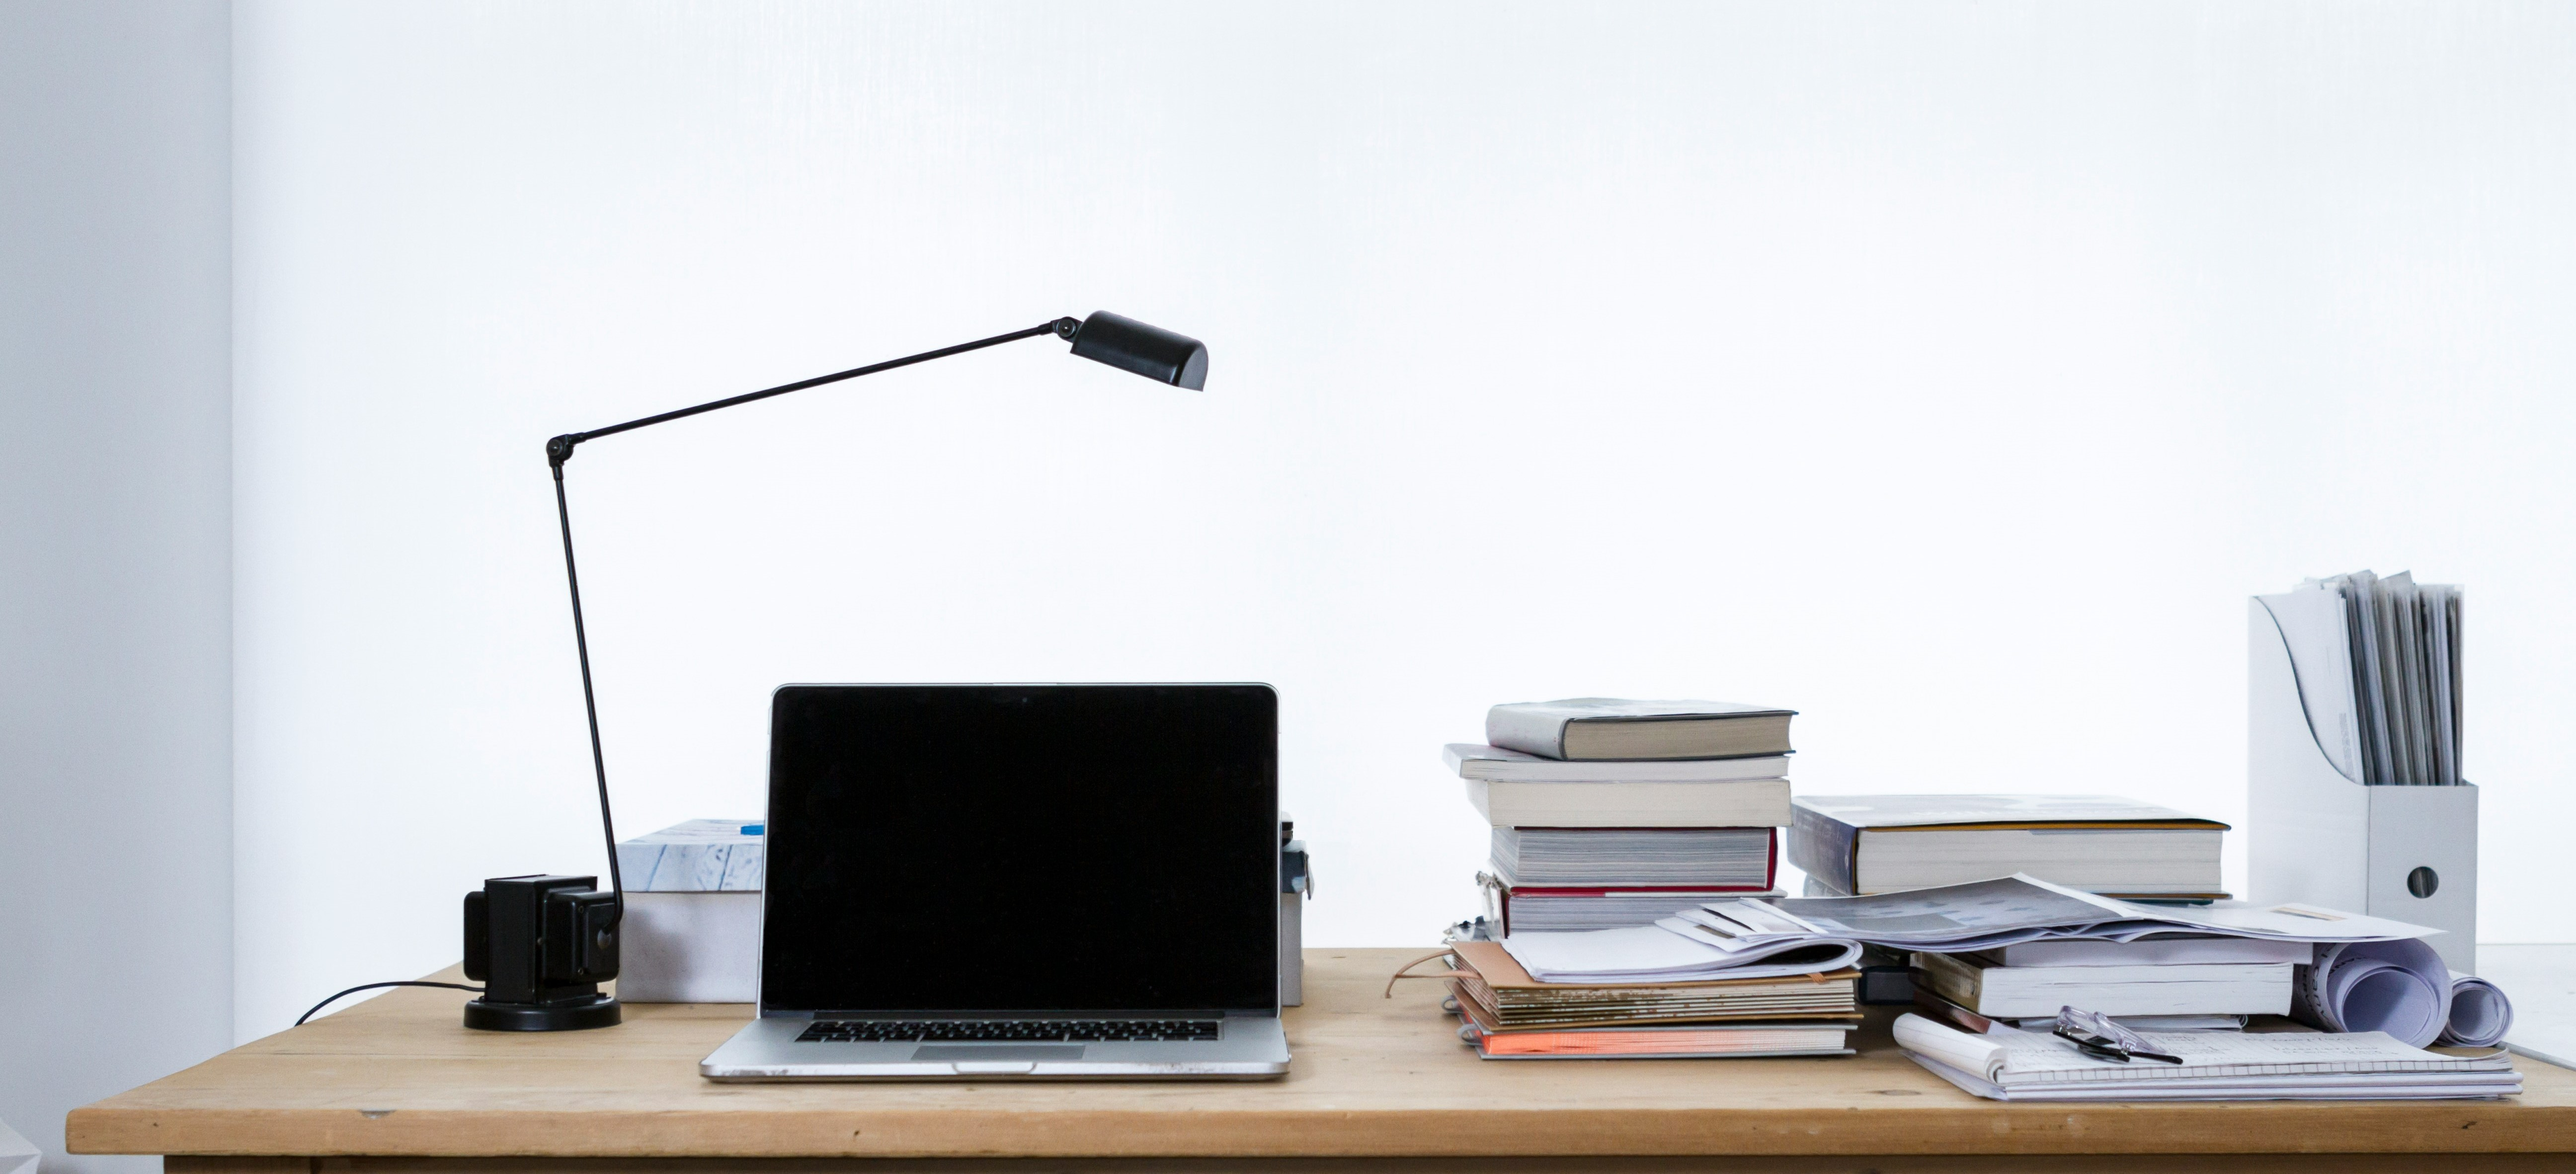
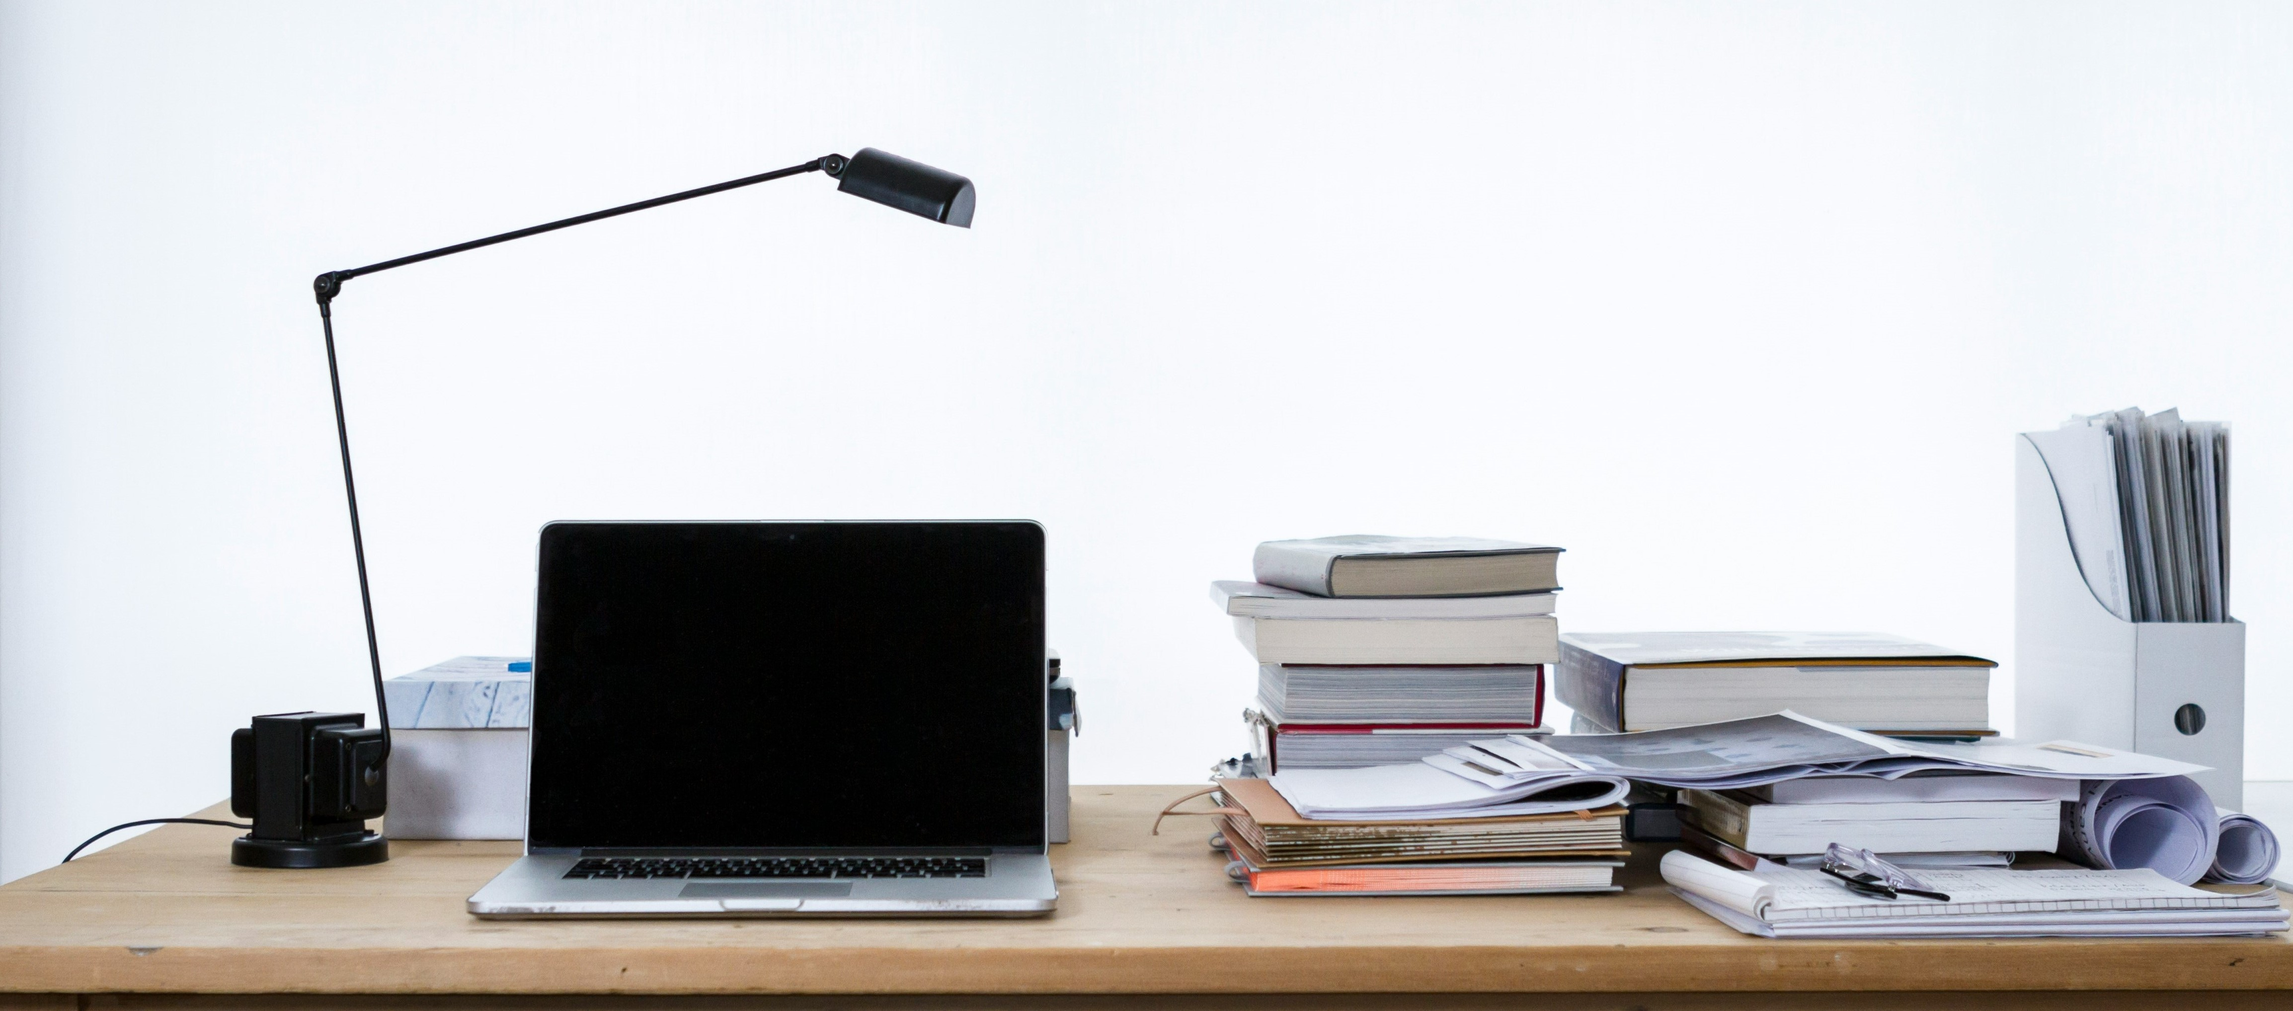
Test

diff --git a/content/ko/authors/admin/_index.md b/content/ko/authors/admin/_index.md
@@ -131,6 +131,8 @@ email: 🖥
 user_groups:
   - admin
 ---
-<span style="font-size: 155%; font-weight: 800;">소개
+<span style="font-size: 155%; font-weight: 800;">소개</span>
 
+<span style="font-size: 120%; font-weight: 500;">
 안녕하세요! 제 이름은 <strong>최현솔</strong>이라고 합니다. 전북대학교 컴퓨터인공지능학부에 재학 중입니다. 현재는 웹 개발에 관심이 있어 공부 중입니다. 이외에도 데이터베이스, 알고리즘과 같은 다양한 전공 관련 지식들을 쌓는 중 입니다. 추후에 유능한 개발자로서 개발 부서에서 근무하는 것이 저의 목표입니다. 응원해주시면 감사하겠습니다. 
+</span>

diff --git a/content/ko/posts/index.md b/content/ko/posts/index.md
@@ -18,7 +18,7 @@ sections:
             brightness: 0.8
           parallax: false
           position: center
-          size: contain
+          size: cover
       spacing:
         padding: ['30vh', '0', '30vh', '0']
 
